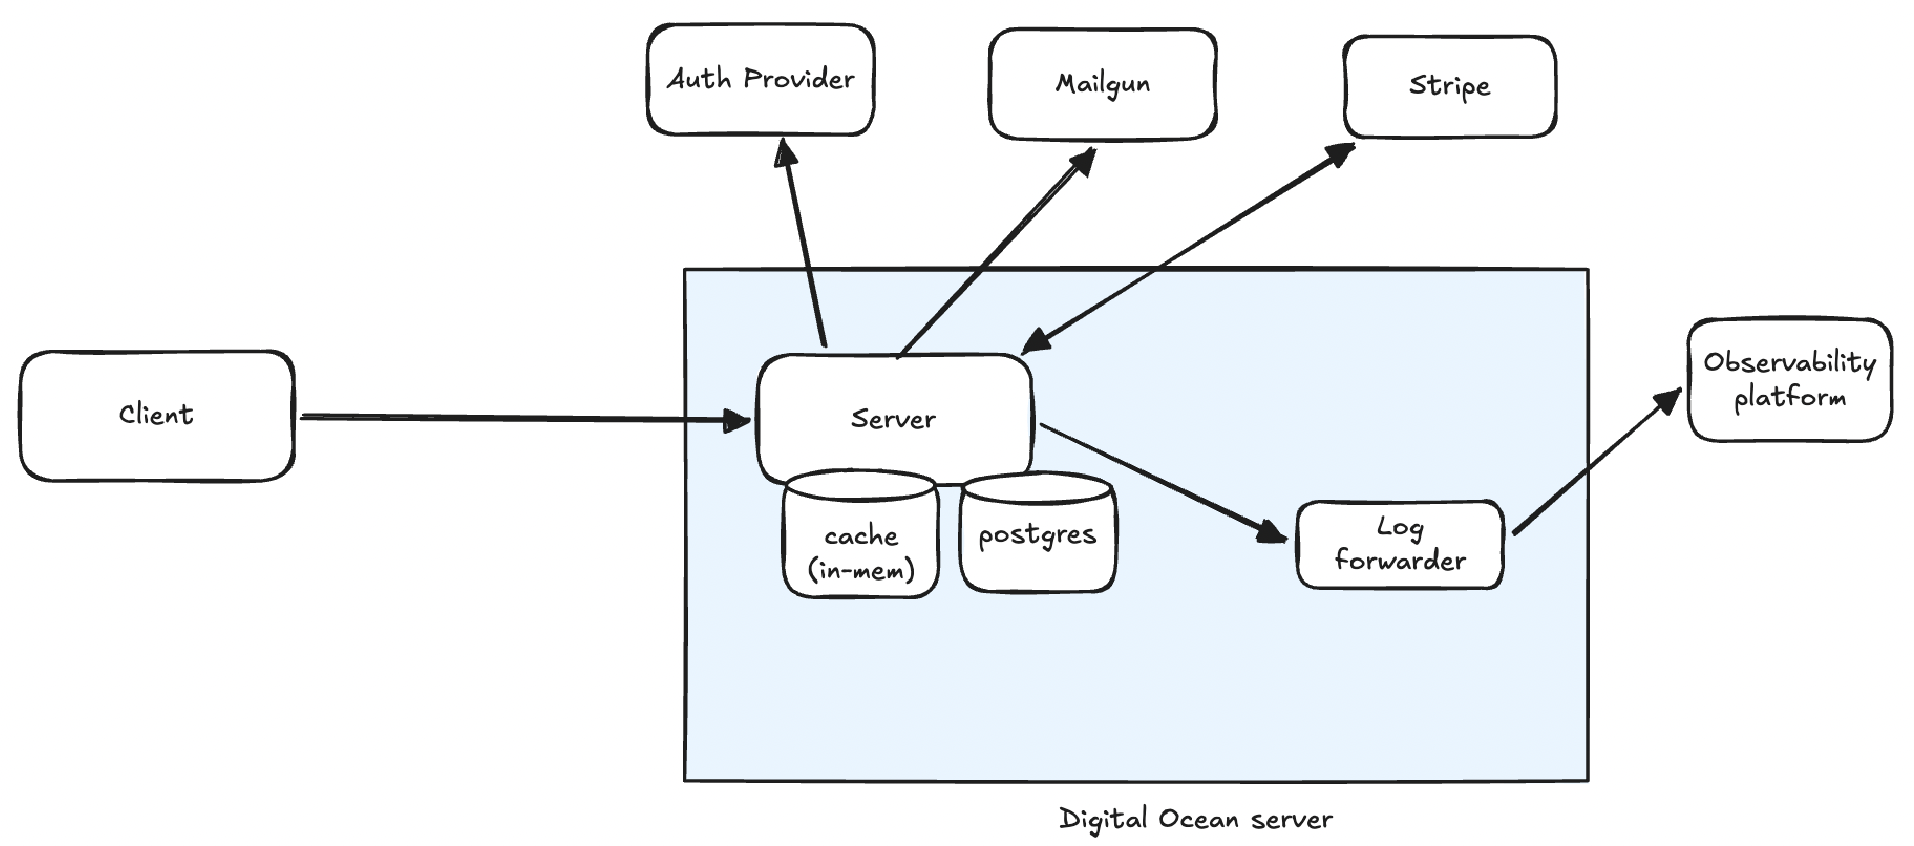
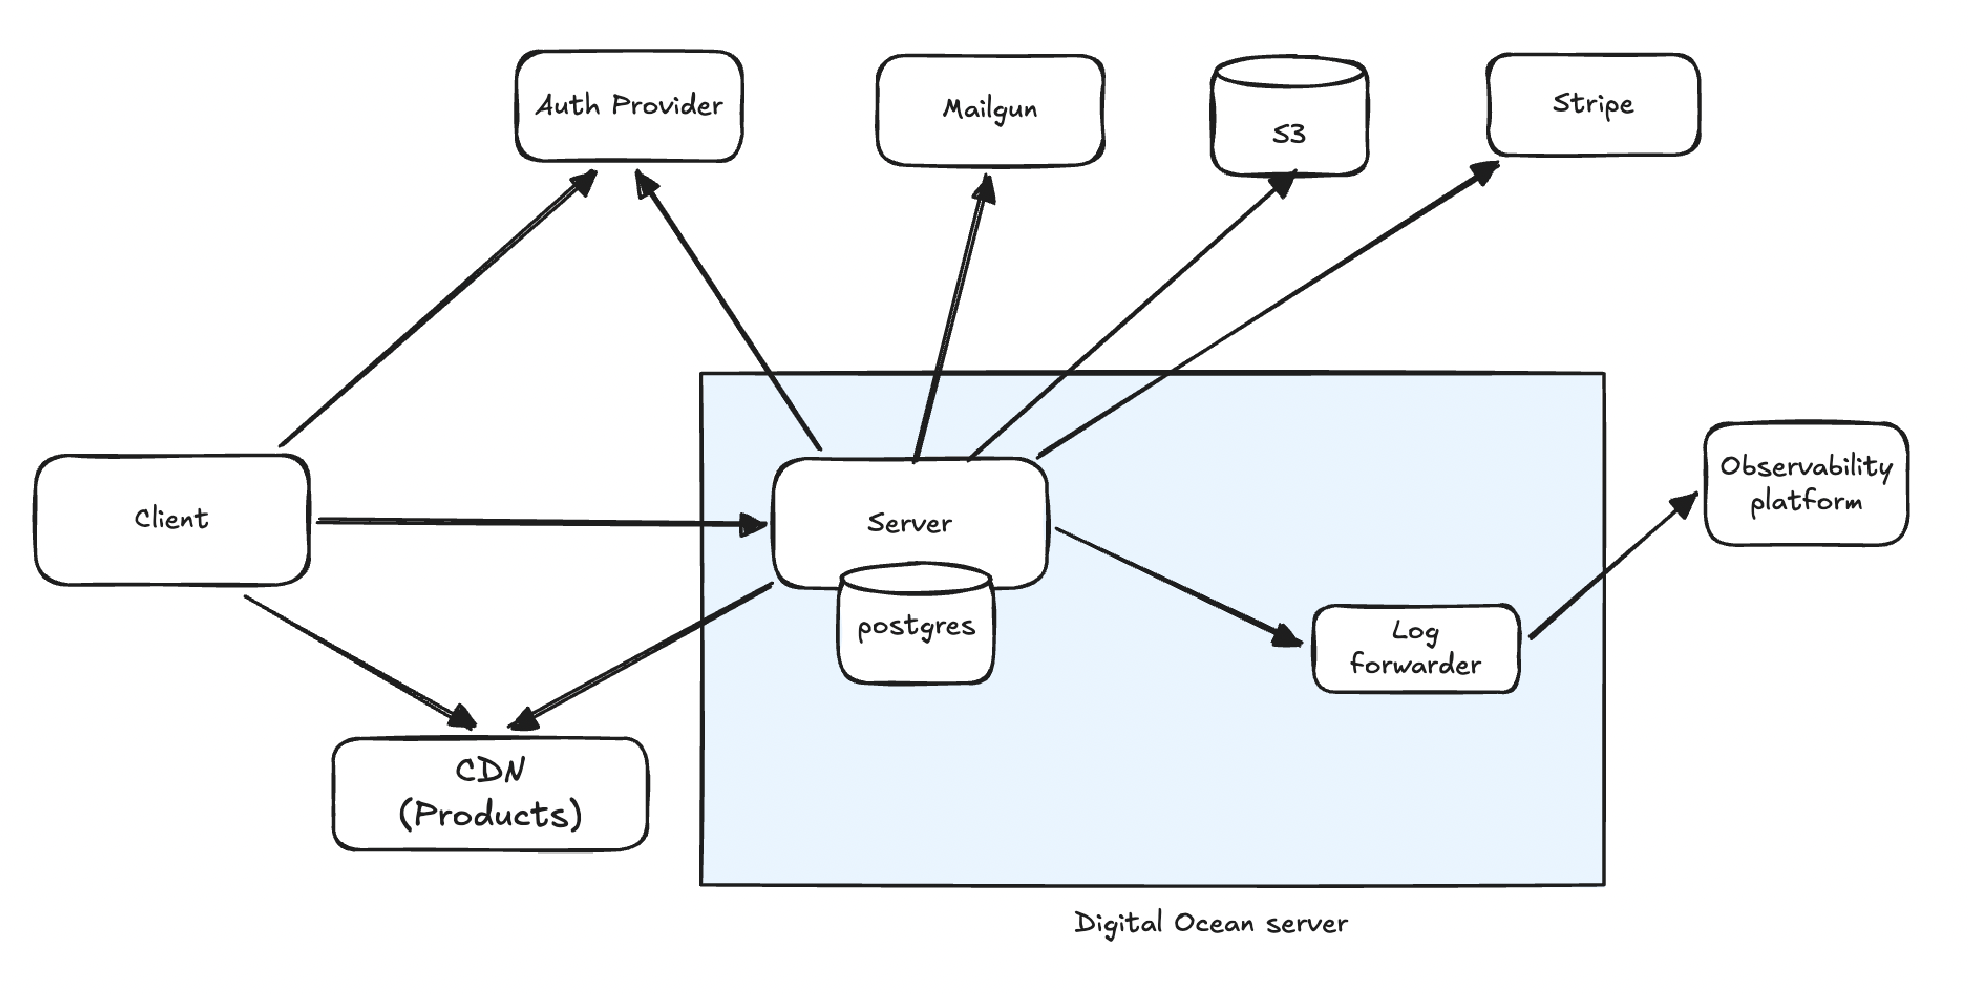
Updated app architecture diagram (CDN, S3)

diff --git a/internal/server/server.go b/internal/server/server.go
@@ -48,7 +48,7 @@ func New(ctx context.Context, deps Dependencies, cfg *config.App) *Server {
 		AllowOrigins: []string{cfg.ClientURL},
 	}))
 
-	// TODO: implement middleware
+	// TODO: implement logging middleware
 	// instance.Use(middleware.Log)
 
 	// limits each unique IP to 60 requests per minute with a burst of 120.
@@ -65,9 +65,9 @@ func New(ctx context.Context, deps Dependencies, cfg *config.App) *Server {
 	)
 
 	if cfg.Environment == config.EnvironmentTest {
-		// run test middleware
+		// TODO: run test middleware
 	} else {
-		// run auth middleware
+		// TODO: run auth middleware
 	}
 
 	public := instance.Group("")

diff --git a/README.md b/README.md
@@ -7,7 +7,7 @@ Go server for keto granola e-commerce platform using Echo for HTTP routing, Post
 ## Development
 
 ### Prerequisite files:
-- 
+- .env
 
 ### Setup:
 ```